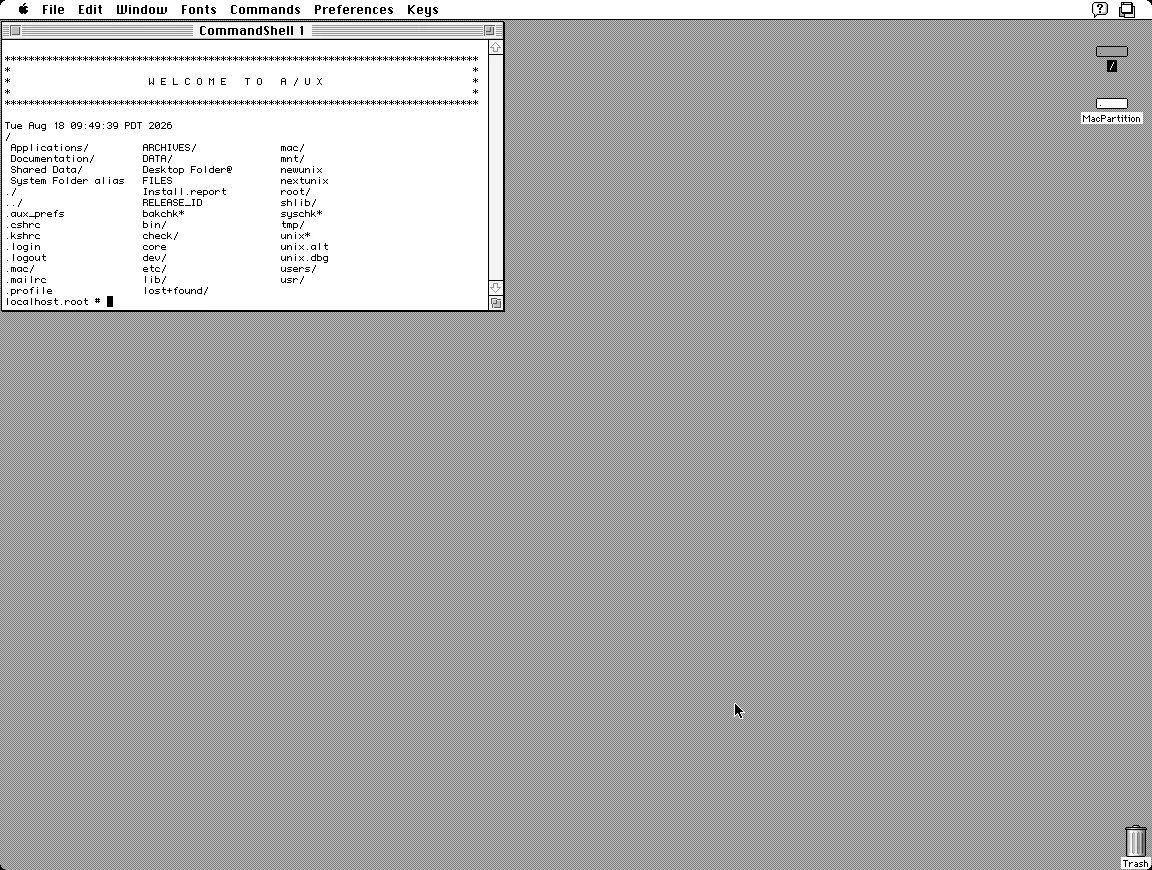
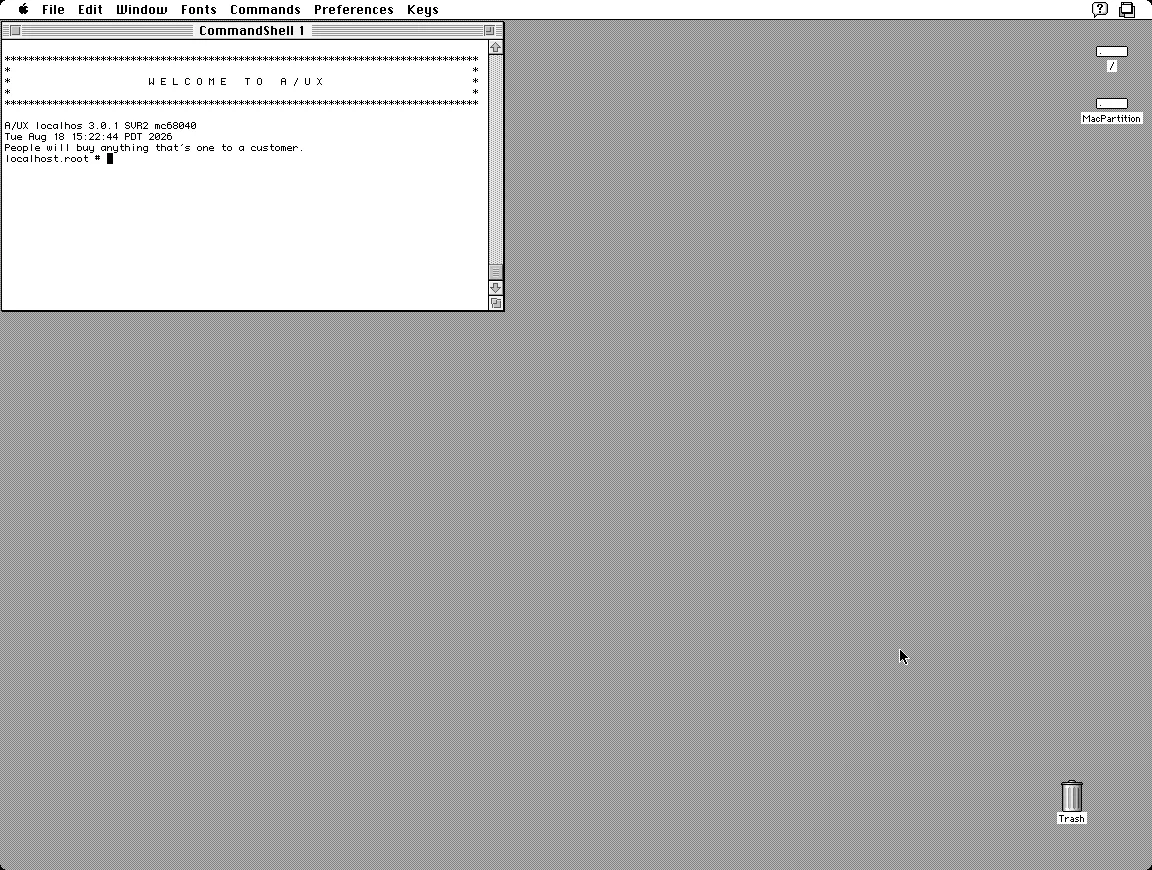
aux: exact relative pointer bridge (SH_REL_MAX_STEP / SH_REL_QUANTUM), Very Slow tracking + scale 1.3333; games/QuickTime/man/network installed; golden re-baked
streamhost: two opt-in dbus-rel knobs. SH_REL_QUANTUM=N sends only multiples
of N guest units and keeps the sub-quantum remainder pending in the bridge
model; SH_REL_MAX_STEP caps the chunk size. Default (0 / 256) is byte-identical
to today's chunker (unit-tested). A/UX at Very Slow moves exactly
trunc(0.75*units) px per event up to 32 units and accelerates above, so
32/4 makes every send land on the model: 1:1, no drift, < 3 px residual.

Claude-Session: https://claude.ai/code/session_01FquwuDbpgLkHPrQ6qfGFjP

diff --git a/streamhost/streamhost/src/input.rs b/streamhost/streamhost/src/input.rs
@@ -205,23 +205,53 @@ const HOME_SETTLE_MS: u64 = 250;
 /// (dx,dy) — no rounding drift, so tracking stays 1:1. A move that already fits
 /// in one step returns a single chunk (empty for a zero move), i.e. the common
 /// pointer-lock small-delta case is byte-identical to a bare `rel_motion`.
+#[cfg(test)]
 fn rel_chunks(dx: i32, dy: i32) -> Vec<(i32, i32)> {
-    if dx.abs() <= MAX_REL_STEP && dy.abs() <= MAX_REL_STEP {
+    rel_chunks_with(dx, dy, MAX_REL_STEP, 0)
+}
+
+/// Round `v` toward zero to a multiple of `q` (`q <= 1` = identity).
+fn quantize(v: i32, q: i32) -> i32 {
+    if q <= 1 {
+        v
+    } else {
+        v - v % q
+    }
+}
+
+/// `rel_chunks` with a per-station chunk cap and an optional QUANTUM: with
+/// `quantum > 1` every chunk delta is a multiple of `quantum` on both axes.
+/// The caller must then pass an already-quantized (dx,dy) — the sum stays exact
+/// because the last chunk absorbs the rounding of the intermediate targets.
+/// This is the A/UX shape: the guest moves exactly trunc(0.75 * units) px per
+/// event and accelerates above ~32 units, so 4-unit multiples in <=32-unit
+/// chunks make every send land where the model says.
+fn rel_chunks_with(dx: i32, dy: i32, max_step: i32, quantum: i32) -> Vec<(i32, i32)> {
+    let max_step = max_step.max(1);
+    if dx.abs() <= max_step && dy.abs() <= max_step {
         return if dx == 0 && dy == 0 {
             Vec::new()
         } else {
             vec![(dx, dy)]
         };
     }
-    let steps = (dx.abs().max(dy.abs()) + MAX_REL_STEP - 1) / MAX_REL_STEP;
+    let steps = (dx.abs().max(dy.abs()) + max_step - 1) / max_step;
     let steps = steps.max(1);
     let mut out = Vec::with_capacity(steps as usize);
     let (mut sent_x, mut sent_y) = (0i32, 0i32);
     for i in 1..=steps {
-        // Cumulative target at chunk i, then the incremental delta. Integer
-        // division here can never make a chunk exceed MAX_REL_STEP.
-        let tx = dx * i / steps;
-        let ty = dy * i / steps;
+        // Cumulative target at chunk i (rounded to the quantum, the final
+        // step being the exact total), then the incremental delta. Integer
+        // division here can never make a chunk exceed max_step by more than
+        // one quantum.
+        let (tx, ty) = if i == steps {
+            (dx, dy)
+        } else {
+            (
+                quantize(dx * i / steps, quantum),
+                quantize(dy * i / steps, quantum),
+            )
+        };
         let (cx, cy) = (tx - sent_x, ty - sent_y);
         sent_x = tx;
         sent_y = ty;
@@ -237,7 +267,13 @@ fn rel_chunks(dx: i32, dy: i32) -> Vec<(i32, i32)> {
 /// QNX / rel-station fix). A small delta is one un-paced send == `rel_motion`, so the
 /// pointer-lock direct-rel (type=4) small-delta path stays exactly 1:1.
 pub async fn rel_motion_bounded(cap: &Capture, dx: i32, dy: i32) {
-    let chunks = rel_chunks(dx, dy);
+    rel_motion_bounded_with(cap, dx, dy, MAX_REL_STEP, 0).await;
+}
+
+/// `rel_motion_bounded` with the station's chunk cap and quantum (see
+/// `rel_chunks_with`); the plain form is the default-station shape.
+pub async fn rel_motion_bounded_with(cap: &Capture, dx: i32, dy: i32, max_step: i32, quantum: i32) {
+    let chunks = rel_chunks_with(dx, dy, max_step, quantum);
     let n = chunks.len();
     for (i, (cx, cy)) in chunks.into_iter().enumerate() {
         rel_motion(cap, cx, cy).await;
@@ -429,6 +465,19 @@ async fn apply_move_abs(
                 st.ly = 0;
                 st.seeded = true;
                 (0, 0)
+            } else if cfg.rel_quantum > 1 {
+                // QUANTIZED bridge (SH_REL_QUANTUM): send only whole quanta and
+                // leave the remainder PENDING in the model — lx/ly advance by
+                // what was actually sent, not to the target — so a guest that
+                // truncates per event (A/UX: trunc(0.75 * units) px) never
+                // loses a fraction the model believed it moved. The residual
+                // is < one quantum (< 3 px on A/UX) and is made up as soon as
+                // the pointer moves on.
+                let dx = quantize(tx - st.lx, cfg.rel_quantum);
+                let dy = quantize(ty - st.ly, cfg.rel_quantum);
+                st.lx += dx;
+                st.ly += dy;
+                (dx, dy)
             } else {
                 let dx = tx - st.lx;
                 let dy = ty - st.ly;
@@ -441,7 +490,7 @@ async fn apply_move_abs(
         // large seed jump (origin -> target) or a fast drag never hits
         // the PS/2 per-send clamp and truncates (the rel-station fix). A
         // (0,0) delta yields no send, so this is a no-op when idle.
-        rel_motion_bounded(cap, dx, dy).await;
+        rel_motion_bounded_with(cap, dx, dy, cfg.rel_max_step, cfg.rel_quantum).await;
     }
 }
 
@@ -654,7 +703,10 @@ pub async fn handle(
 
 #[cfg(test)]
 mod tests {
-    use super::{calibrated_abs, home_pin, newer, rel_chunks, HOME_PIN, MAX_REL_STEP};
+    use super::{
+        calibrated_abs, home_pin, newer, quantize, rel_chunks, rel_chunks_with, HOME_PIN,
+        MAX_REL_STEP,
+    };
 
     // The pin is sent in guest DELTA UNITS but its invariant ("exceed the guest
     // surface") is stated in PIXELS, so it has to scale with the guest's own
@@ -732,6 +784,52 @@ mod tests {
             }
             assert_eq!((sx, sy), (dx, dy), "chunks must sum to the original delta");
         }
+    }
+
+    // Quantized chunking (A/UX): every chunk is a multiple of the quantum on
+    // both axes, no chunk exceeds the cap by more than one quantum, and the
+    // chunks still sum exactly to the (already-quantized) delta.
+    #[test]
+    fn rel_chunks_quantized_are_multiples_and_exact() {
+        for (dx, dy) in [
+            (400, 0),
+            (0, -804),
+            (1152, 868),
+            (-2048, -2048),
+            (36, -8),
+            (33, 0),
+        ] {
+            let chunks = rel_chunks_with(dx, dy, 32, 4);
+            let (mut sx, mut sy) = (0i32, 0i32);
+            for (cx, cy) in &chunks {
+                assert_eq!(cx % 4, 0, "chunk dx {cx} not a quantum multiple");
+                assert_eq!(cy % 4, 0, "chunk dy {cy} not a quantum multiple");
+                assert!(
+                    cx.abs() <= 36 && cy.abs() <= 36,
+                    "chunk ({cx},{cy}) exceeds cap+quantum"
+                );
+                sx += cx;
+                sy += cy;
+            }
+            assert_eq!((sx, sy), (dx, dy));
+        }
+        // quantum 0/1 and the default cap == the historical chunker, byte for byte
+        for (dx, dy) in [(2000, 0), (1000, -37), (5, -3), (0, 0)] {
+            assert_eq!(rel_chunks_with(dx, dy, MAX_REL_STEP, 0), rel_chunks(dx, dy));
+            assert_eq!(rel_chunks_with(dx, dy, MAX_REL_STEP, 1), rel_chunks(dx, dy));
+        }
+    }
+
+    // The quantizer rounds toward zero so the pending remainder always has the
+    // sign of the motion still owed.
+    #[test]
+    fn quantize_rounds_toward_zero() {
+        assert_eq!(quantize(7, 4), 4);
+        assert_eq!(quantize(-7, 4), -4);
+        assert_eq!(quantize(8, 4), 8);
+        assert_eq!(quantize(3, 4), 0);
+        assert_eq!(quantize(9, 0), 9);
+        assert_eq!(quantize(-9, 1), -9);
     }
 
     // ---- cseq: the client's statement of what it sent first ----------------

diff --git a/streamhost/streamhost/src/config/mod.rs b/streamhost/streamhost/src/config/mod.rs
@@ -127,6 +127,18 @@ pub struct Config {
     pub cursor_off_x: i32,
     pub cursor_off_y: i32,
     pub cursor_scale: f64,
+    /// dbus-rel bridge only: send relative motion ONLY in multiples of this many
+    /// guest units, carrying the sub-quantum remainder in the model until more
+    /// motion arrives (SH_REL_QUANTUM, 0 = off = every station today). For a
+    /// guest whose tracking truncates per event (A/UX at "Very Slow": px =
+    /// trunc(0.75 * units)) a quantum of 4 makes every send land exactly
+    /// (4 -> 3 px), so the homing bridge stays 1:1 instead of drifting.
+    pub rel_quantum: i32,
+    /// dbus-rel bridge only: per-send chunk cap in guest units (SH_REL_MAX_STEP,
+    /// default 256 = the historical PS/2 clamp window). Guests that ACCELERATE
+    /// large single events (A/UX above ~32 units) need it lowered so no chunk
+    /// ever crosses into the accelerated range.
+    pub rel_max_step: i32,
     /// host:port of the in-guest warpd agent (via a QEMU hostfwd), used when
     /// input_backend == Warpd. e.g. 127.0.0.1:7790 forwarded to the guest's :7777.
     pub warpd_addr: String,
@@ -401,6 +413,11 @@ impl Config {
         let mut cursor_off_x: i32 = env_or("SH_CURSOR_OFF_X", "0").parse().unwrap_or(0);
         let mut cursor_off_y: i32 = env_or("SH_CURSOR_OFF_Y", "0").parse().unwrap_or(0);
         let mut cursor_scale: f64 = env_or("SH_CURSOR_SCALE", "1.0").parse().unwrap_or(1.0);
+        let rel_quantum: i32 = env_or("SH_REL_QUANTUM", "0").parse().unwrap_or(0).max(0);
+        let rel_max_step: i32 = env_or("SH_REL_MAX_STEP", "256")
+            .parse()
+            .unwrap_or(256)
+            .max(1);
         let mut warpd_addr = env_or("SH_WARPD_ADDR", "127.0.0.1:7790");
         let mut warpd_buttons_qemu = env_or("SH_WARPD_BUTTONS", "agent") == "qemu";
         let mut warpd_wheel = env_or("SH_WARPD_WHEEL", "auto");
@@ -686,6 +703,8 @@ impl Config {
             input_bench_addr,
             cursor_off_x,
             cursor_off_y,
+            rel_quantum,
+            rel_max_step,
             cursor_scale,
             warpd_addr,
             warpd_buttons_qemu,

diff --git a/docs/guests/aux.md b/docs/guests/aux.md
@@ -142,21 +142,39 @@ getty on the modem port — the future `labctl exec` channel) and, **install
 phase only**, the helper disk at SCSI 5 and the CD as a writable `scsi-hd`
 overlay at SCSI 3. The checkpoint will be baked without helper and CD.
 
-## Pointer / keyboard
+## Pointer / keyboard — the bridge made exact (2026-08-18)
 
-`dbus-rel`, scale 1.0 **unmeasured**. Mac OS "Very Slow" tracking is 0.36
-px/unit on the same hardware; A/UX's Finder and X11 apply their own factors —
-measure with `adb_pointer.py gain` on the installed desktop before listing.
+No absolute path exists on a q800 (no USB tablet, no vmmouse, no PCI for
+gallery-hid), so the station runs the daemon's `dbus-rel` homing bridge. It is
+**exact by construction, not by feedback**: with the Mouse control panel at
+"Very Slow" (baked into the checkpoint) the A/UX Toolbox moves exactly
+`trunc(0.75 * units)` px per event for events up to 32 units, and accelerates
+above that. Measured with `mouse_move` sweeps against the framebuffer (both
+axes, diagonals): 4->3, 8->6, 16->12, 32->24, 50x8 units -> 300 px; single
+64/100/200/500-unit events -> 63/85/192/442 px. Two per-station daemon knobs
+(new, default-off for every other station):
+
+- `SH_REL_MAX_STEP=32` — chunk cap; no send crosses into the accelerated range.
+- `SH_REL_QUANTUM=4` — every send is a multiple of 4 units (= 3 px exactly, no
+  truncation loss); the sub-quantum remainder stays pending in the model.
+
+`SH_CURSOR_SCALE=1.3333` (1/0.75). Residual < 3 px, no drift, corner-pinned on
+the first sample. Not a closed loop (no cursor readback exists here); a
+closed loop would need an in-guest agent (`basicC`/`macprog` archives are on
+disk) — see the follow-up in the guest doc's Open list. The A/UX Finder also
+DROPS fast button presses over ADB (~0.3 s registers): keyboard proof is
+typing in the CommandShell.
 
 ## Open
 
-- Optional packages (X11 Server, MacX, X clients, Games, QuickTime, man
-  pages, networking): on disk under `/ARCHIVES`, not installed — the Easy
-  Install GUI refuses on the free-space bug; install from the CommandShell.
+- Optional packages: Games, QuickTime, man pages and networking installed
+  2026-08-18 from `/ARCHIVES` (`cd / && cpio -idmu < /ARCHIVES/<pkg>`; only
+  `network` has a `/DATA/POSTINSTALL` script, run as `sh … / /`). Still on
+  disk, not installed: X11 Server, MacX, X clients, C compilers, macprog.
+- Closed-loop pointer (readback) would need an in-guest agent; the exact
+  open-loop bridge above is what ships.
 - A/UX 3.1 update (`AUX_3.1_Update.iso`, archived) not applied.
-- Pointer scale unmeasured (A/UX Toolbox acceleration); the A/UX Finder
-  drops fast button presses (hold ~0.3 s) — operator eyeball through the
-  browser. Keyboard proof = typing in the CommandShell.
+- Pointer 1:1 in the browser: operator eyeball (bridge exact by measurement).
 - No exec channel (no getty on the serial line yet).
 
 ## Rollback

diff --git a/docs/IO-PATHS.md b/docs/IO-PATHS.md
@@ -38,6 +38,7 @@ dbus-rel 8, warpd 5, gallery-hid 1, mamesock 3** (`irix`, `w2kalpha`, `tru64`).
 | **dbus-abs / usb-tablet** | 24 stations — `winxp win2000 reactos haiku alpine tinycore nextstep openvms` and every graphical kiosk | abs | type-1 → per-session drain-coalesce → `Mouse.SetAbsPosition` after the cursor-scale affine | Simplest and truest; needs the guest to bind a usb-tablet |
 | **dbus-abs / vmmouse** | `nt4` (explicit), `serenityos` (implicit q35 `vmport=auto`) | abs | same call; the absolute device is QEMU's VMware aux mouse | Avoids a USB stack; the implicit case is invisible in the device ledger |
 | **dbus-rel / homing bridge** | `nt351 freedos msdoswin1 qnx indyr4400 star c64 amstradcpc` | rel (client still sends abs) | first sample pins the cursor to 0,0 with an over-clamp, waits, then sends deltas from the last target | Works on any PS/2-only guest with no device change; guest acceleration and out-of-band cursor moves desync the model |
+| **dbus-rel / quantized bridge** | `aux` (macos753 is the plain calibrated form) | rel (client still sends abs) | same bridge, plus `SH_REL_MAX_STEP` (chunk cap, 32) and `SH_REL_QUANTUM` (send only multiples of N units, 4; remainder pending in the model) | Exact when the guest's per-event response is a deterministic truncation below a threshold (A/UX "Very Slow": px = trunc(0.75·units) up to 32 units, accelerated above): every send lands on the model, residual < one quantum, no drift; still open-loop — no cursor readback |
 | **type-4 direct relative** (Pointer Lock) | `freedos qnx msdoswin1 indyr4400 star` | rel | locked `movementX/Y`, clamped 300 px/axis, straight to `rel_motion_bounded` — no homing pin | True 1:1 with the guest drawing its own cursor; needs fullscreen + a user gesture |
 | **gallery-hid** | `solaris` only | abs | guest px normalised to 0..32767 into a 16-byte record over a unix chardev; QEMU publishes into a 256-entry BAR2 ring and raises INTA | Fastest and most faithful in the fleet; costs a patched QEMU **and** a custom guest driver per OS |
 | **warpd agent** (pure) | `ninefront templeos`, `solaris` (rollback + `E` exec) | abs | newline `M/P/R/B` verbs over TCP hostfwd or a serial chardev; the agent calls XTEST / the Plan 9 absolute mouse / writes `ms.pos` | Reaches full-screen absolute where the tablet is capped or absent; protocol is **frozen** |

diff --git a/registry/posters/aux.md b/registry/posters/aux.md
@@ -4,7 +4,7 @@ subtitle: 1993 · Apple's own System V Unix, wearing the Macintosh Finder
 hero: /posters/aux/desktop.webp
 images:
   - src: /posters/aux/desktop.webp
-    alt: The A/UX 3.0.1 desktop at 1152×870 — a Macintosh menu bar reading File, Edit, Window, Fonts, Commands, Preferences, Keys; a CommandShell window top-left with a "WELCOME TO A/UX" banner, a directory listing of / and a "localhost.root #" prompt; the Unix root "/" and "MacPartition" disk icons top-right; the Trash bottom-right
+    alt: The A/UX 3.0.1 desktop at 1152×870 — a Macintosh menu bar reading File, Edit, Window, Fonts, Commands, Preferences, Keys; a CommandShell window top-left with a "WELCOME TO A/UX" banner, `uname -a`, the date, a fortune and a "localhost.root #" prompt; the Unix root "/" and "MacPartition" disk icons top-right; the Trash bottom-right
     caption: A Unix root prompt in a Macintosh window, with the Unix root directory sitting on the desktop as a disk. That is the whole idea of A/UX in one screen.
 ---
 ## Origins
@@ -21,7 +21,7 @@ The machine is a **Quadra 800** — a 33 MHz 68040 tower from 1993, the same emu
 
 ## What you're looking at
 
-A/UX 3.0.1 booted to its desktop on an emulated Quadra 800 at 1152×870, logged in as root. The window top-left is **CommandShell** — a Bourne shell in a Macintosh window, showing the system's welcome banner and a listing of `/`. The disk icon named `/` top-right *is* the Unix root filesystem, browsable in the Finder like any Macintosh volume; `MacPartition` is the small HFS volume that holds A/UX Startup, the Mac program that boots the Unix kernel. Type into the shell, or open folders in the Finder — it is the same filesystem either way.
+A/UX 3.0.1 booted to its desktop on an emulated Quadra 800 at 1152×870, logged in as root. The window top-left is **CommandShell** — a Bourne shell in a Macintosh window, showing the system's welcome banner, `uname -a` and a fortune (the BSD games are installed, along with QuickTime, the manual pages and networking). The disk icon named `/` top-right *is* the Unix root filesystem, browsable in the Finder like any Macintosh volume; `MacPartition` is the small HFS volume that holds A/UX Startup, the Mac program that boots the Unix kernel. Type into the shell, or open folders in the Finder — it is the same filesystem either way.
 
 ## Legacy
 
